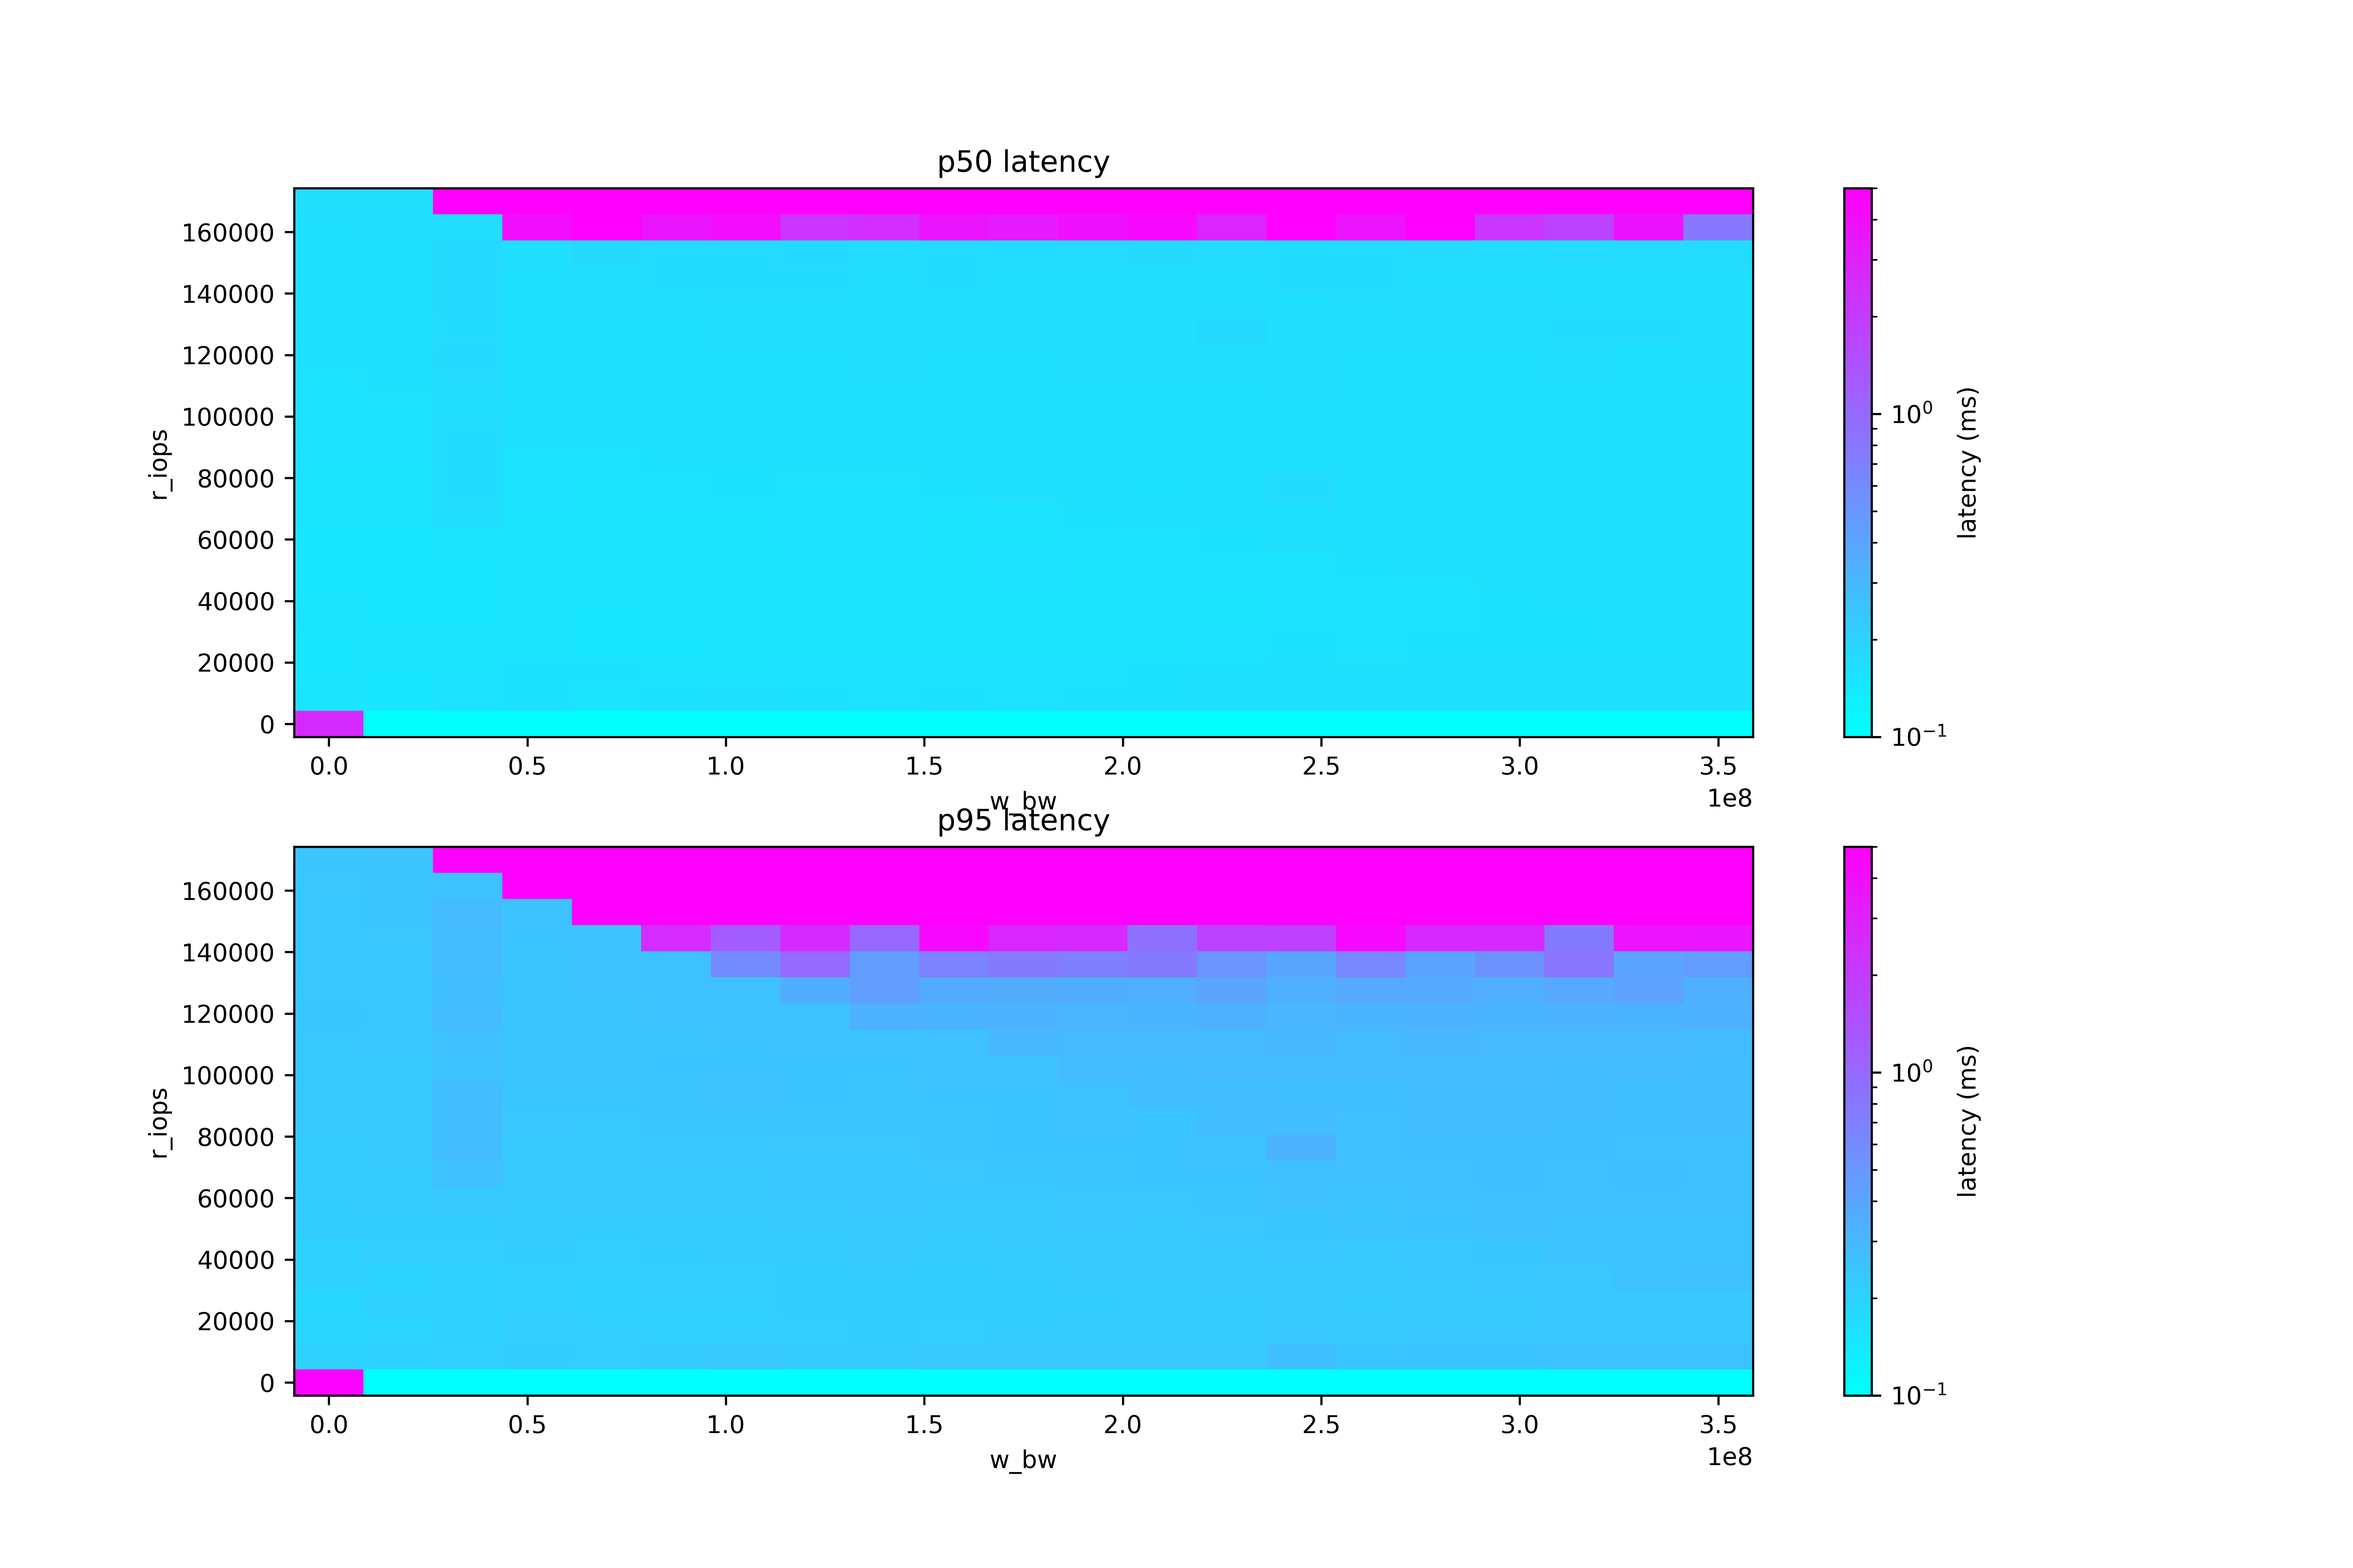
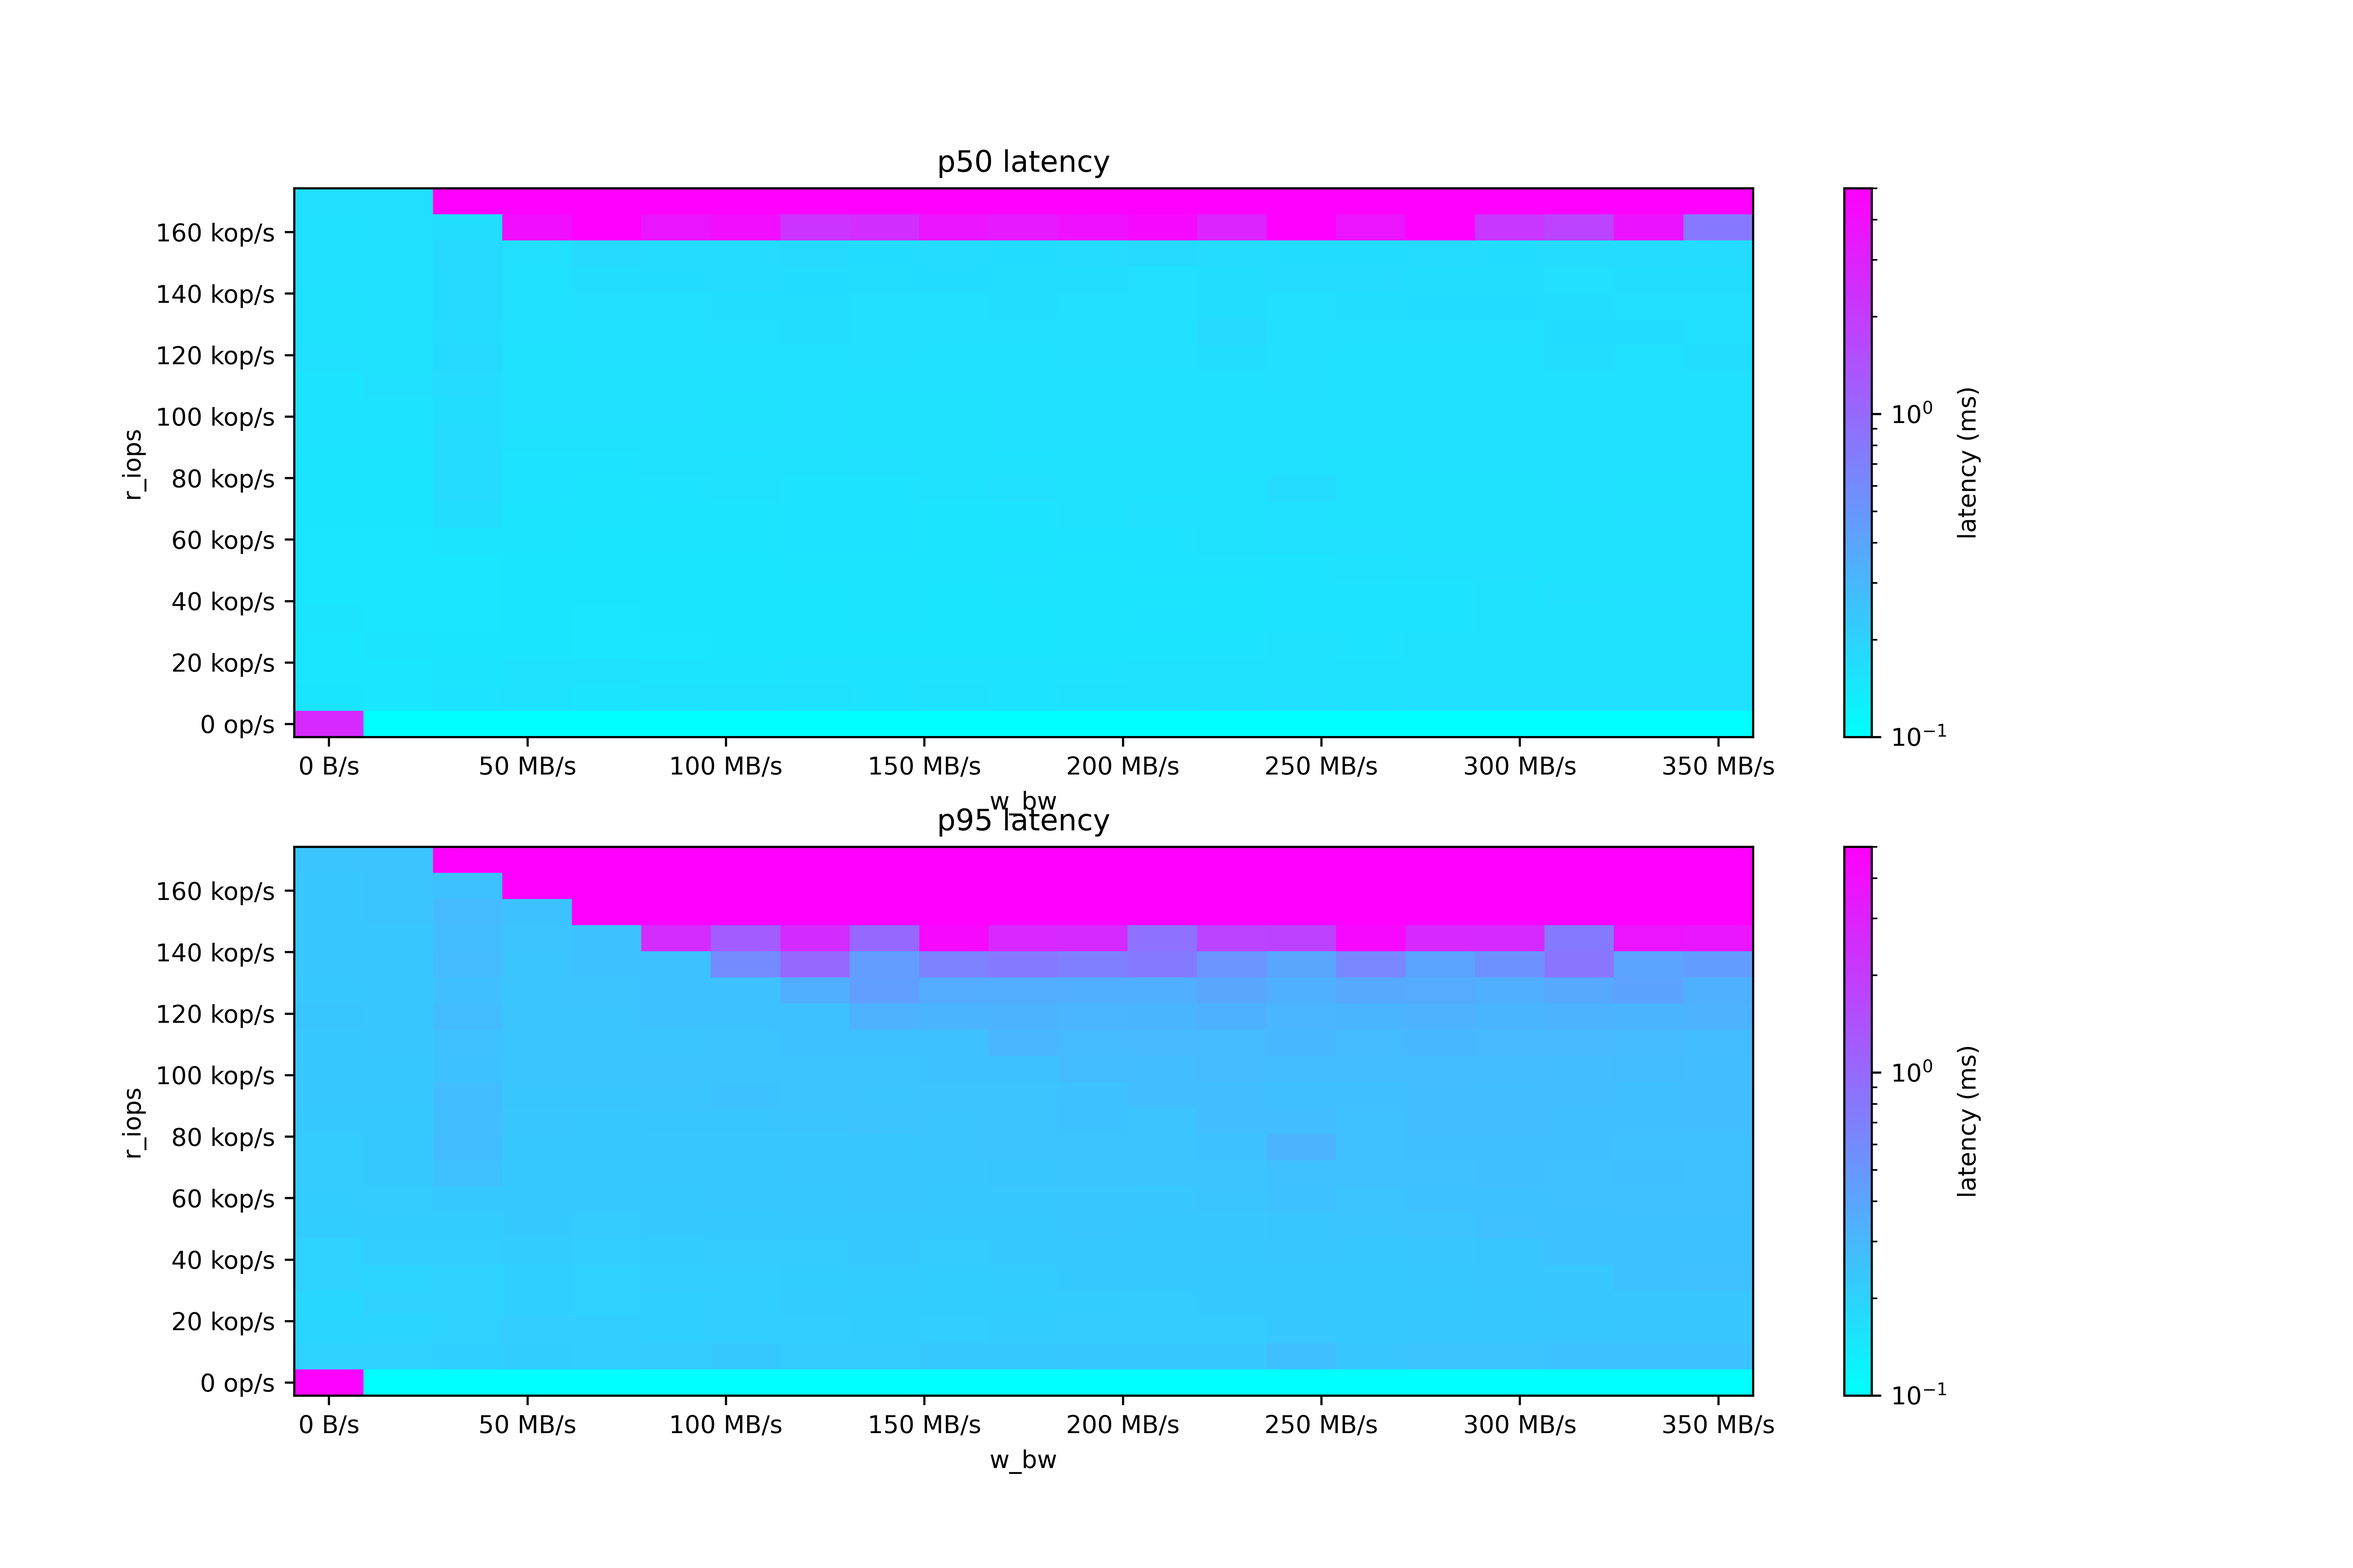
Improve labeling of x and y axis

diff --git a/latency-postprocess.py b/latency-postprocess.py
@@ -7,6 +7,7 @@ import collections
 import argparse
 import matplotlib
 import matplotlib.pyplot as plt
+import matplotlib.ticker
 import itertools
 
 parser = argparse.ArgumentParser(description='Post-process latency matrix results')
@@ -67,7 +68,9 @@ for name_mat, ax in zip(mats, axs):
     name, mat = name_mat
     ax.set_title(f'{name} latency')
     ax.set_xlabel('w_bw')
+    ax.xaxis.set_major_formatter(matplotlib.ticker.EngFormatter(unit='B/s'))
     ax.set_ylabel('r_iops')
+    ax.yaxis.set_major_formatter(matplotlib.ticker.EngFormatter(unit='op/s'))
     c = ax.pcolor(w_bw, r_iops, mat, shading='auto', cmap='cool',
                   norm=matplotlib.colors.LogNorm(vmin=0.1, vmax=5, clip=True))
     colorbar = fig.colorbar(c, ax=ax)
